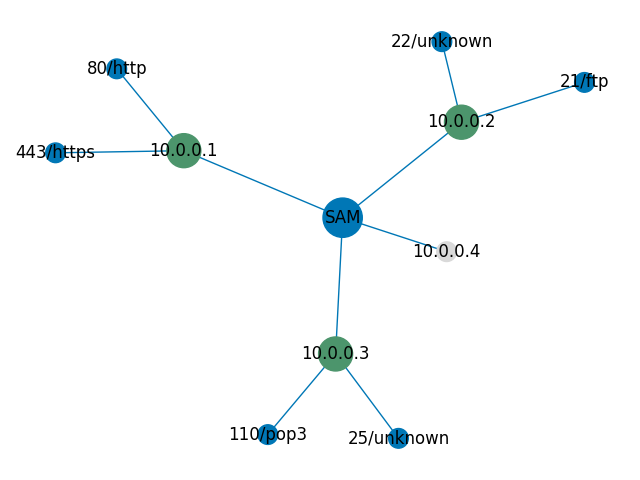
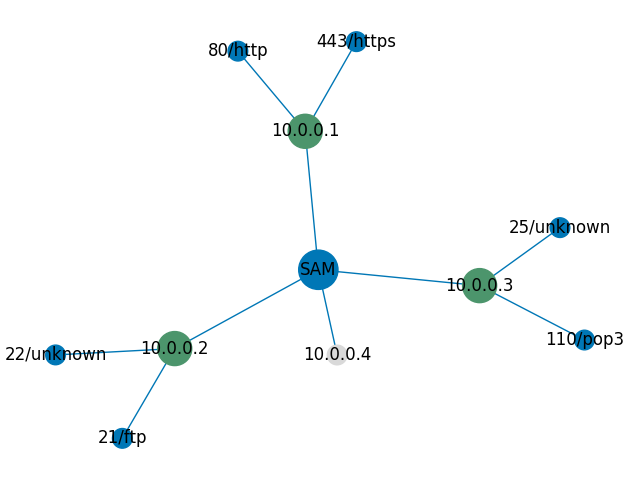
nmap network creation

diff --git a/src/network_creation.py b/src/network_creation.py
@@ -11,13 +11,15 @@ import matplotlib.pyplot as plt
 ## XML PARSING ##
 def xml_parse(xml_file):
     """
-    Reads a .xml file and parses it storing network information. Returns a dictionary of important network components.
+    Reads a .xml file and parses it storing network information. 
+    Returns the nmap command used and a dictionary of important network components.
 
     ARGS
         xml_file: nmap scan .xml output
     """
     tree = ET.parse(xml_file)
     root = tree.getroot()  # tag that envelopes everything (SAM)
+    scan_command = root.attrib["args"]
 
     # loop over root children and their sub attributes
     # network info will be housed in a dictionary
@@ -83,7 +85,6 @@ def xml_parse(xml_file):
             network_config["hostname"] = hostname_list  # store list of hostnames if contains multiple
 
             # find IP open ports
-            # ERROR PORTION (not getting all information)
             port_root = child.find("ports")
             if port_root is not None:
                 port_lst = []
@@ -99,26 +100,34 @@ def xml_parse(xml_file):
         # add the host into the dictionary
         network[ip_addr] = network_config
 
-    return network
+    return scan_command, network
 
 ## NETWORK CREATION ##
-def dictionary_to_networkx(network_dict):
+def dictionary_to_networkx(network_dict, cmd):
     """
     Takes a dictionary and visualizes the network defined.
 
     ARGS
         network_dict: Dictionary object containing network information.
+        cmd: nmap command
     """
     G = nx.Graph()
     SCANNER = "SAM"
+    PORT_COLORS = {
+        80: "#fb8500",  # web
+        443: "#fb8500",  # web
+        22: "#d9d9d9"  # ssh
+    }
+
     # parse the dictionary to get the nodes (scanner -> IP -> Ports)
     G.add_node(SCANNER)
 
     for ip in network_dict.keys():
-        G.add_node(ip, color="#4c956c" if network_dict[ip]["state"] == "up" else "#d9d9d9")  # adding a node to IP
+        state = network_dict[ip].get("state", "unknown")
+        G.add_node(ip, color="#4c956c" if state == "up" else "#d9d9d9")  # adding a node to IP
 
         # if down connect using dashed lines
-        if network_dict[ip]["state"] != "up":
+        if state != "up":
             G.add_edge(SCANNER, ip)
         else:
             G.add_edge(SCANNER, ip)
@@ -127,17 +136,11 @@ def dictionary_to_networkx(network_dict):
         if network_dict[ip]["ports"] is not None:
             for n in network_dict[ip]["ports"]:
                 # color code port edges
-                if n["portid"] in [80, 443]:
-                    color = "#fb8500"
-                elif n["portid"] == 22:
-                    color = "#d9d9d9"
-                else:
-                    color = "#0077b6"
-
+                # color = PORT_COLORS.get(int(n["portid"]), "#0077b6")
                 service_label = f"{n['portid']}/{n.get('name', 'unknown')}"
-                G.add_node(service_label)
-                G.add_edge(ip, service_label, color=color)
 
+                G.add_node(service_label)
+                G.add_edge(ip, service_label, color="#0077b6")
 
     # display graph
     # pull the colors used
@@ -155,7 +158,7 @@ def dictionary_to_networkx(network_dict):
     )
 
     # save the fig as the name of the nmap command
-    plt.savefig("nmap_out_ad.png")
+    plt.savefig(f"{cmd}.png")
     plt.show()
 
 def main():
@@ -164,8 +167,8 @@ def main():
     xml2 = "../data/nmap_output_adv.xml"
     xml3 = "../data/nmap_stress_test.xml"
 
-    network = xml_parse(xml1)
-    dictionary_to_networkx(network)
+    command, network = xml_parse(xml1)
+    dictionary_to_networkx(network, command)
 
 if __name__ == "__main__":
     main()
